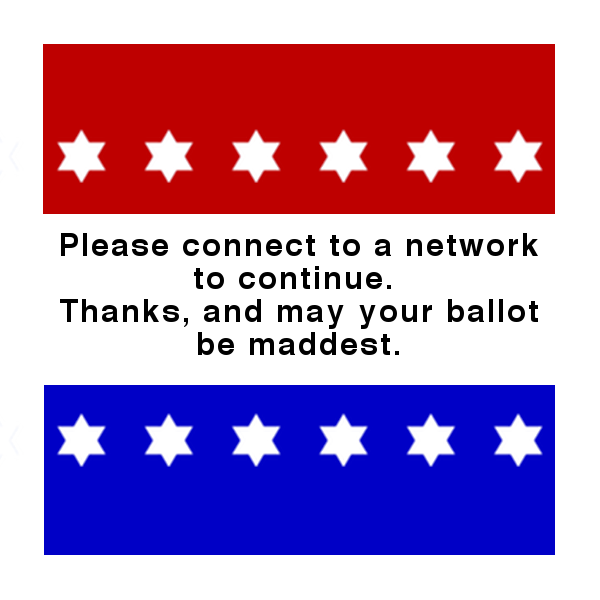
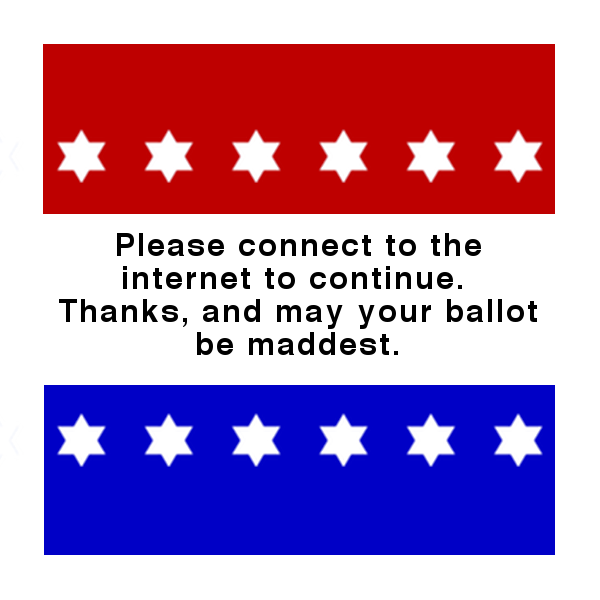
Updates to support storyboard with OS6/OS7 delta adjustments. Also added network error image.

diff --git a/Mad Ballots/AppDelegate.m b/Mad Ballots/AppDelegate.m
@@ -106,8 +106,7 @@
 
 +(UIWebView *)webAppView{
     AppDelegate * app = (AppDelegate *)[[UIApplication sharedApplication] delegate];
-    return (UIWebView *)app.window.rootViewController.view;
-    
+    return (UIWebView *)[[app.window.rootViewController.view subviews] objectAtIndex:0];
 }
 
 
@@ -135,12 +134,13 @@
     
 
     // Override point for customization after application launch.
-    self.window = [[UIWindow alloc] initWithFrame:[[UIScreen mainScreen] bounds]];
-    MBWebAppViewController *webAppViewController = [[MBWebAppViewController alloc] initWithNibName:@"MBWebAppViewController" bundle:nil];
+    //self.window = [[UIWindow alloc] initWithFrame:[[UIScreen mainScreen] bounds]];
+    //self.window.bounds = CGRectMake(0, -20, self.window.frame.size.width, self.window.frame.size.height);
+    //MBWebAppViewController *webAppViewController = [[MBWebAppViewController alloc] initWithNibName:@"MBWebAppViewController" bundle:nil];
     //GamesViewController *gamesViewController = [[GamesViewController alloc] initWithNibName:@"GamesViewController" bundle:nil];
-    self.rootNavController = [[UINavigationController alloc] init];
-    self.window.rootViewController = webAppViewController; //self.rootNavController;
-    [self.window makeKeyAndVisible];
+    //self.rootNavController = nil; //[[UINavigationController alloc] init];
+    //self.window.rootViewController = //webAppViewController; //self.rootNavController;
+    //[self.window makeKeyAndVisible];
 
     
     

diff --git a/Mad Ballots/MBWebAppViewController.m b/Mad Ballots/MBWebAppViewController.m
@@ -15,7 +15,7 @@
 
 @implementation MBWebAppViewController
 
-- (id)initWithNibName:(NSString *)nibNameOrNil bundle:(NSBundle *)nibBundleOrNil
+/*- (id)initWithNibName:(NSString *)nibNameOrNil bundle:(NSBundle *)nibBundleOrNil
 {
     self = [super initWithNibName:nibNameOrNil bundle:nibBundleOrNil];
     if (self) {
@@ -23,12 +23,16 @@
         [(UIWebView *)[self view] setDelegate:self];
     }
     return self;
-}
+}*/
 
 - (void)viewDidLoad
 {
     [super viewDidLoad];
     // Do any additional setup after loading the view from its nib.
+    
+    self.automaticallyAdjustsScrollViewInsets = NO;
+
+    
 }
 
 - (void)didReceiveMemoryWarning
@@ -40,7 +44,7 @@
 -(void)refreshUI{
     
     NSURLRequest * req = [NSURLRequest requestWithURL:[NSURL URLWithString:BASE_URL]];
-    [(UIWebView*)[self view] loadRequest:req];
+    [(UIWebView*)[AppDelegate webAppView] loadRequest:req];
     
 }
 
@@ -72,7 +76,6 @@
         [[AppDelegate getInstance] processLogout];
     }
     
-    
 }
 
 
@@ -81,6 +84,7 @@
     NSLog(@"Start Loading");
     
 }
+
 
 
 @end
